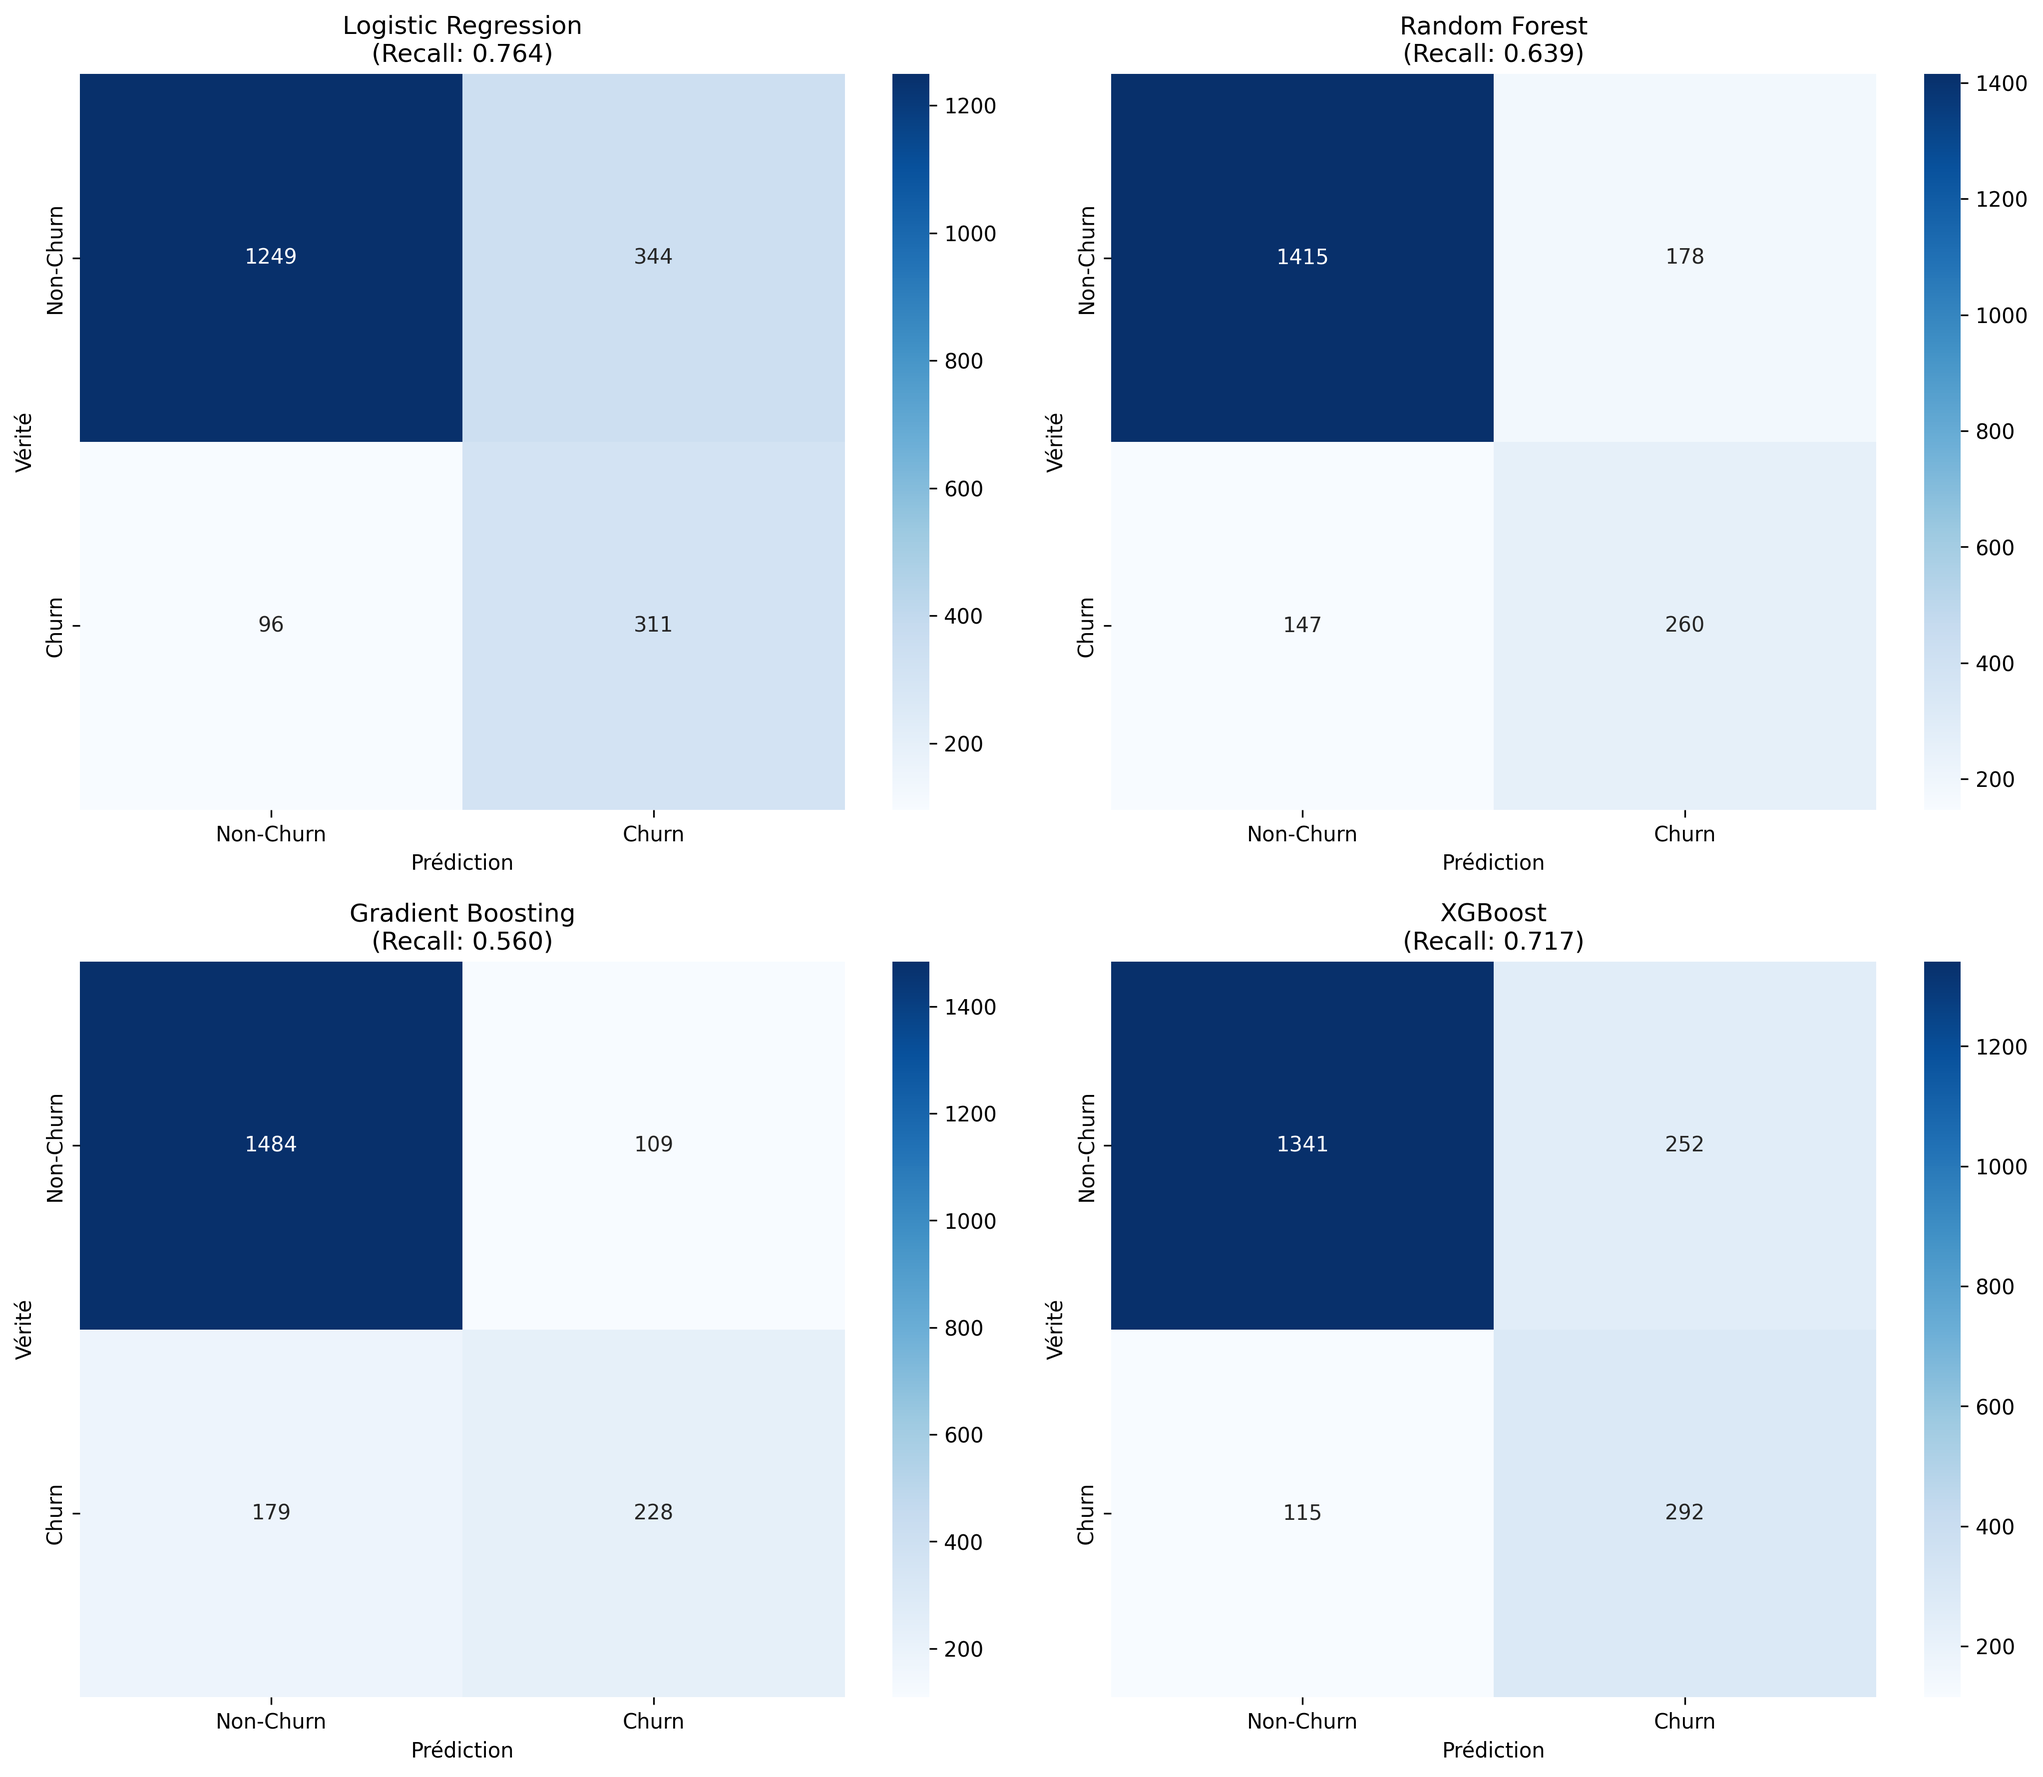
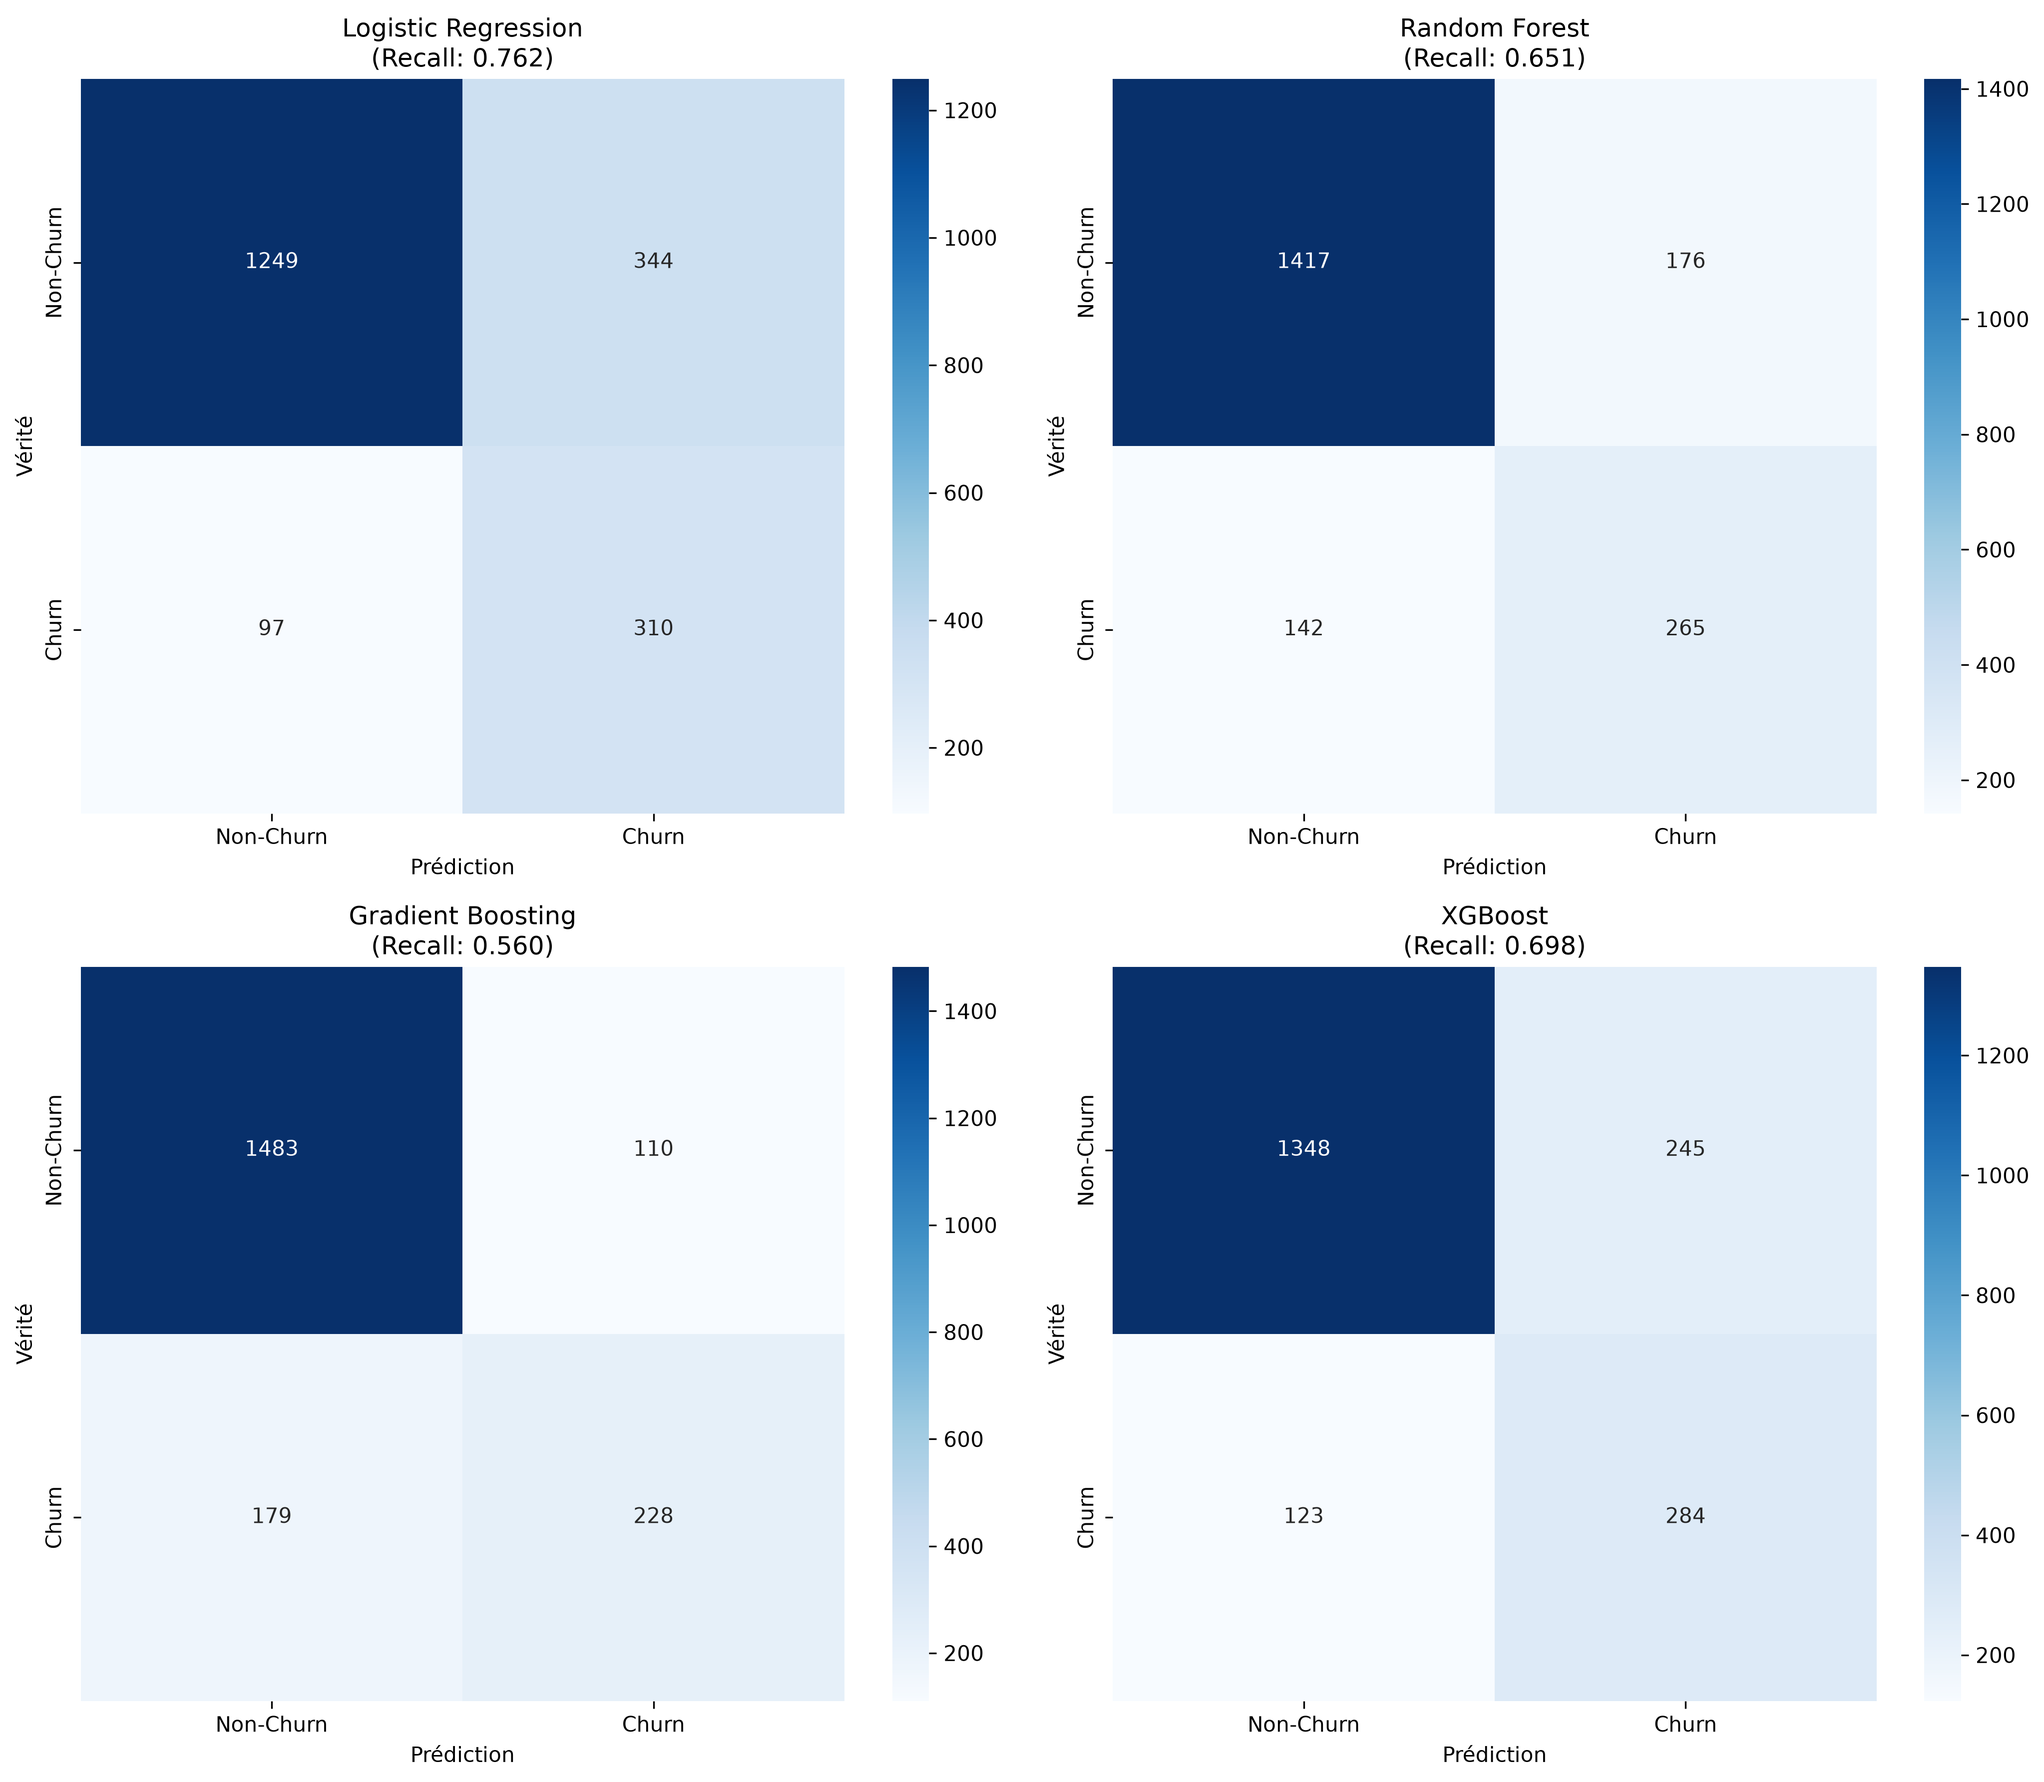
chore: regenerer les metriques apres la montee de version
Les nouvelles versions de numpy et scikit-learn decalent les metriques
a la troisieme decimale. Le recall passe de 76,41 a 76,17 pour cent, la
precision de 47,48 a 47,40, le F1 de 58,57 a 58,44. La matrice de
confusion bouge d'un client : 310 departs detectes au lieu de 311, 97
manques au lieu de 96.

Les ecarts sont plus nets sur les modeles a base d'arbres. Le recall de
XGBoost passe de 71,74 a 69,78 pour cent, celui de Random Forest de
63,88 a 65,11. Le classement, lui, ne change pas : la regression
logistique reste le modele au meilleur recall, et donc le modele retenu.

Les vingt-cinq chiffres du README sont mis a jour, ainsi que les
coefficients du modele et les trois figures. Le test qui compare les
metriques publiees a celles mesurees tolere un ecart d'un millionieme :
laisser les anciens chiffres aurait fait echouer la suite, et surtout
aurait rendu la documentation fausse.

diff --git a/README.md b/README.md
@@ -1,7 +1,7 @@
 # Prédiction du churn bancaire — pipeline MLOps
 
 [![CI](https://github.com/DenisMT22/bank-churn-mlops/actions/workflows/ci-cd.yml/badge.svg)](https://github.com/DenisMT22/bank-churn-mlops/actions/workflows/ci-cd.yml)
-[![Python](https://img.shields.io/badge/Python-3.10-blue.svg)](https://python.org)
+[![Python](https://img.shields.io/badge/Python-3.12-blue.svg)](https://python.org)
 [![FastAPI](https://img.shields.io/badge/FastAPI-0.104-009688.svg)](https://fastapi.tiangolo.com)
 [![Licence](https://img.shields.io/badge/Licence-MIT-green.svg)](LICENSE)
 
@@ -82,7 +82,7 @@ Pour le déployer sur votre propre compte :
    relier à GitHub.
 2. Cliquer sur **New app**, choisir ce dépôt et la branche `main`.
 3. Renseigner `streamlit_app.py` comme fichier principal.
-4. Laisser Python 3.10 ; les dépendances de `requirements.txt` sont
+4. Choisir Python 3.12 ; les dépendances de `requirements.txt` sont
    installées automatiquement.
 5. Déployer. Le premier démarrage entraîne le modèle, ce qui prend quelques
    secondes.
@@ -175,7 +175,7 @@ d'intégration continue, boucle de monitoring — est dans
 
 ### Prérequis
 
-- Python 3.10 ou 3.11
+- Python 3.12
 - Docker, facultatif
 
 ### Installation
@@ -261,12 +261,12 @@ Le script `train.py` compare automatiquement 4 algorithmes et sélectionne le me
 
 | Modèle | Accuracy | Precision | Recall ⭐ | F1-Score | ROC-AUC |
 |--------|----------|-----------|----------|----------|---------|
-| **Logistic Regression** 🏆 | 78.00% | 47.48% | **76.41%** | 58.57% | 85.39% |
-| XGBoost | 81.65% | 53.68% | 71.74% | 61.41% | 85.43% |
-| Random Forest | 83.75% | 59.36% | 63.88% | 61.54% | 85.68% |
-| Gradient Boosting | 85.60% | 67.66% | 56.02% | 61.29% | 85.73% |
+| **Logistic Regression** 🏆 | 77.95% | 47.40% | **76.17%** | 58.44% | 85.39% |
+| XGBoost | 81.60% | 53.69% | 69.78% | 60.68% | 85.69% |
+| Random Forest | 84.10% | 60.09% | 65.11% | 62.50% | 85.65% |
+| Gradient Boosting | 85.55% | 67.46% | 56.02% | 61.21% | 85.73% |
 
-> **🏆 Gagnant : Logistic Regression** avec un Recall de 76.41%
+> **🏆 Gagnant : Logistic Regression** avec un Recall de 76.17%
 
 > Ces vingt valeurs sont écrites par `make train-complet` dans
 > `models/model_comparison.json`. Aucune n'est saisie à la main.
@@ -275,7 +275,7 @@ Le script `train.py` compare automatiquement 4 algorithmes et sélectionne le me
 
 Bien que d'autres modèles aient une meilleure Accuracy, **Logistic Regression** a été sélectionné car :
 
-1. **Meilleur Recall (76.41%)** : Détecte le plus de churners
+1. **Meilleur Recall (76.17%)** : Détecte le plus de churners
 2. **Interprétabilité** : Coefficients explicables pour le métier
 3. **Rapidité** : Inférence ultra-rapide en production
 4. **Robustesse** : Moins de risque d'overfitting
@@ -285,12 +285,12 @@ Bien que d'autres modèles aient une meilleure Accuracy, **Logistic Regression**
 ```
               Prédit 0    Prédit 1
 Réel 0         1,249         344      (TN / FP)
-Réel 1            96         311      (FN / TP)
+Réel 1            97         310      (FN / TP)
 ```
 
 **Interprétation :**
-- **311 churners correctement identifiés** (True Positives)
-- **96 churners manqués** (False Negatives) - à minimiser
+- **310 churners correctement identifiés** (True Positives)
+- **97 churners manqués** (False Negatives) - à minimiser
 - **344 fausses alertes** (False Positives) - acceptables
 
 ### Métriques du Modèle Retenu
@@ -299,11 +299,11 @@ Mesurées sur le jeu de test de 2 000 clients, jamais vu à l'entraînement.
 
 | Métrique | Score |
 |----------|-------|
-| **Recall** | 76.41% |
-| **Precision** | 47.48% |
-| **F1-Score** | 58.57% |
+| **Recall** | 76.17% |
+| **Precision** | 47.40% |
+| **F1-Score** | 58.44% |
 | **ROC-AUC** | 85.39% |
-| **Accuracy** | 78.00% |
+| **Accuracy** | 77.95% |
 | Recall en validation croisée | 75.71% ± 2.90% |
 
 Une précision de 47% signifie qu'environ une alerte sur deux est une fausse
@@ -325,8 +325,8 @@ vers le départ, un coefficient négatif vers la fidélité.
 | `products_number` | +2.58 | Mais le nombre brut de produits joue en sens inverse |
 | `balance` | +1.33 | Un solde élevé accompagne les départs |
 | `BalancePerProduct` | −1.32 | Rapporté au nombre de produits, l'effet s'inverse |
-| `age` | +1.29 | Les clients plus âgés partent davantage |
-| `active_member` | −0.64 | Un membre actif reste |
+| `age` | +1.28 | Les clients plus âgés partent davantage |
+| `active_member` | −0.65 | Un membre actif reste |
 
 Les deux premières lignes se lisent ensemble : le modèle distingue le fait
 d'avoir plusieurs produits du nombre exact de produits détenus.
